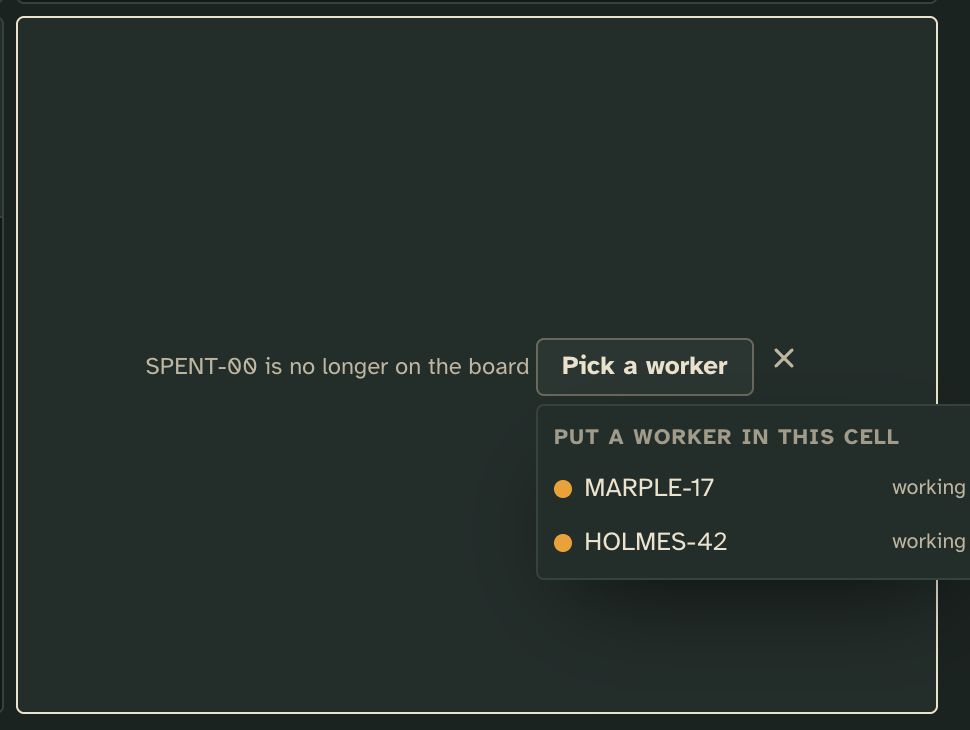
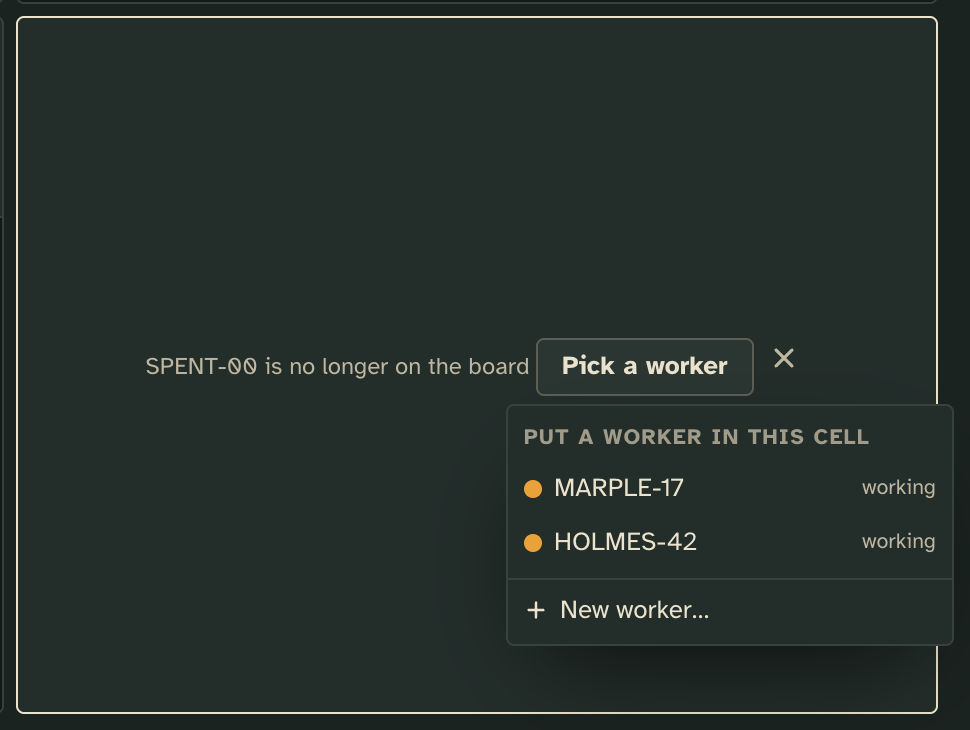
Grid: keep the gone-home cell's menu on screen and offer New worker… in it

diff --git a/examples/extensions/grid/client/grid.js b/examples/extensions/grid/client/grid.js
@@ -142,10 +142,10 @@ export async function mount(host, { tower, board, subject, kit, state }) {
   let paintedFill = ''
 
   /** New worker…, on each floor the grid holds where a worker can start now (none while the host is down), when the renderer lends `kit.spawn`. */
-  const newRowsHtml = () =>
+  const newRowsHtml = (attrs = '') =>
     (kit.spawn ? floorsOf(now, key) : [])
       .filter((f) => can(f, 'spawn'))
-      .map((f) => `<button data-grid-new="${esc(f.id)}">${ICON.plus}${key === 'board' ? `New worker on ${esc(f.name)}…` : 'New worker…'}</button>`)
+      .map((f) => `<button data-grid-new="${esc(f.id)}" ${attrs}>${ICON.plus}${key === 'board' ? `New worker on ${esc(f.name)}…` : 'New worker…'}</button>`)
       .join('')
 
   /** The floor's workers on duty and in no cell, each a button carrying `attr`, by its lamp, callsign and status, or a note that there are none. */
@@ -159,7 +159,7 @@ export async function mount(host, { tower, board, subject, kit, state }) {
   const addMenuHtml = () => `<h3>Add a worker on duty</h3>${freeWorkersHtml('data-grid-add')}${newRowsHtml()}`
 
   /** The menu of workers to put in a gone-home cell. */
-  const replaceMenuHtml = () => `<h3>Put a worker in this cell</h3>${freeWorkersHtml('data-grid-fill')}`
+  const replaceMenuHtml = () => `<h3>Put a worker in this cell</h3>${freeWorkersHtml('data-grid-fill')}${newRowsHtml('data-grid-fill-new')}`
 
   /** What the worker in a cell is told: the heads toggle, the grid's controls, the floor's workers on duty to pick from, and no "Add to grid". */
   const optionsOf = (id) => ({
@@ -238,15 +238,27 @@ export async function mount(host, { tower, board, subject, kit, state }) {
     draw()
   }
 
-  /** The tower's new-worker form on the floor `project`: the worker it starts takes a new cell. @param {string} project */
-  async function startOn(project) {
-    menu.hidePopover()
+  /** The tower's new-worker form on the floor `project`: the id of the worker it starts, drawn as starting until the board carries it. @param {string} project */
+  async function spawnOn(project) {
     const f = now.floors.find((f) => f.id === project)
     if (!f) return
     const id = await kit.spawn(floorSubject(f))
-    if (!id) return
-    starting.add(id)
-    join(id)
+    if (id) starting.add(id)
+    return id
+  }
+
+  /** The worker started on `project` takes a new cell. @param {string} project */
+  async function startOn(project) {
+    menu.hidePopover()
+    const id = await spawnOn(project)
+    if (id) join(id)
+  }
+
+  /** The worker started on `project` takes the place of the gone-home cell `gone`. @param {string} gone @param {string} project */
+  async function startIn(gone, project) {
+    filler.hidePopover()
+    const id = await spawnOn(project)
+    if (id) fill(gone, id)
   }
 
   /** The worker `to` takes the cell of `from`: one already in a cell swaps places with it. */
@@ -270,14 +282,17 @@ export async function mount(host, { tower, board, subject, kit, state }) {
     if (opener) {
       filling = opener.closest('[data-cell]').dataset.cell
       const at = opener.getBoundingClientRect()
-      Object.assign(filler.style, { top: `${at.bottom + 4}px`, left: `${at.left}px` })
-      return filler.showPopover()
+      filler.showPopover()
+      const left = Math.max(8, Math.min(at.left, document.documentElement.clientWidth - filler.offsetWidth - 8))
+      return Object.assign(filler.style, { top: `${at.bottom + 4}px`, left: `${left}px` })
     }
     const filled = e.target.closest('[data-grid-fill]')
     if (filled) return (filler.hidePopover(), fill(filling, filled.dataset.gridFill))
     if (e.target.closest('[data-grid-drop]')) return drop(e.target.closest('[data-cell]').dataset.cell)
     const added = e.target.closest('[data-grid-add]')
     if (added) return (menu.hidePopover(), join(added.dataset.gridAdd))
+    const freshHere = e.target.closest('[data-grid-fill-new]')
+    if (freshHere) return void startIn(filling, freshHere.dataset.gridNew)
     const fresh = e.target.closest('[data-grid-new]')
     if (fresh) return void startOn(fresh.dataset.gridNew)
     if (e.target.closest('[data-grid-flash]')) return void stepFlash()

diff --git a/examples/extensions/grid/README.md b/examples/extensions/grid/README.md
@@ -41,7 +41,8 @@ board, and you stay on the grid. It shows where the tower lends that form to vie
 | ![The Add worker menu](shots/add-light.png) | ![The Add worker menu](shots/add-dark.png) |
 
 **A cell whose worker went home** says it is no longer on the board and offers **Pick a worker**: the same list of the
-floor's workers on duty that are in no cell, and the one picked takes that cell's place, the others keeping theirs.
+floor's workers on duty that are in no cell, then **New worker…**: the one picked, or started, takes that cell's place,
+the others keeping theirs.
 
 | Light | Dark |
 | --- | --- |
